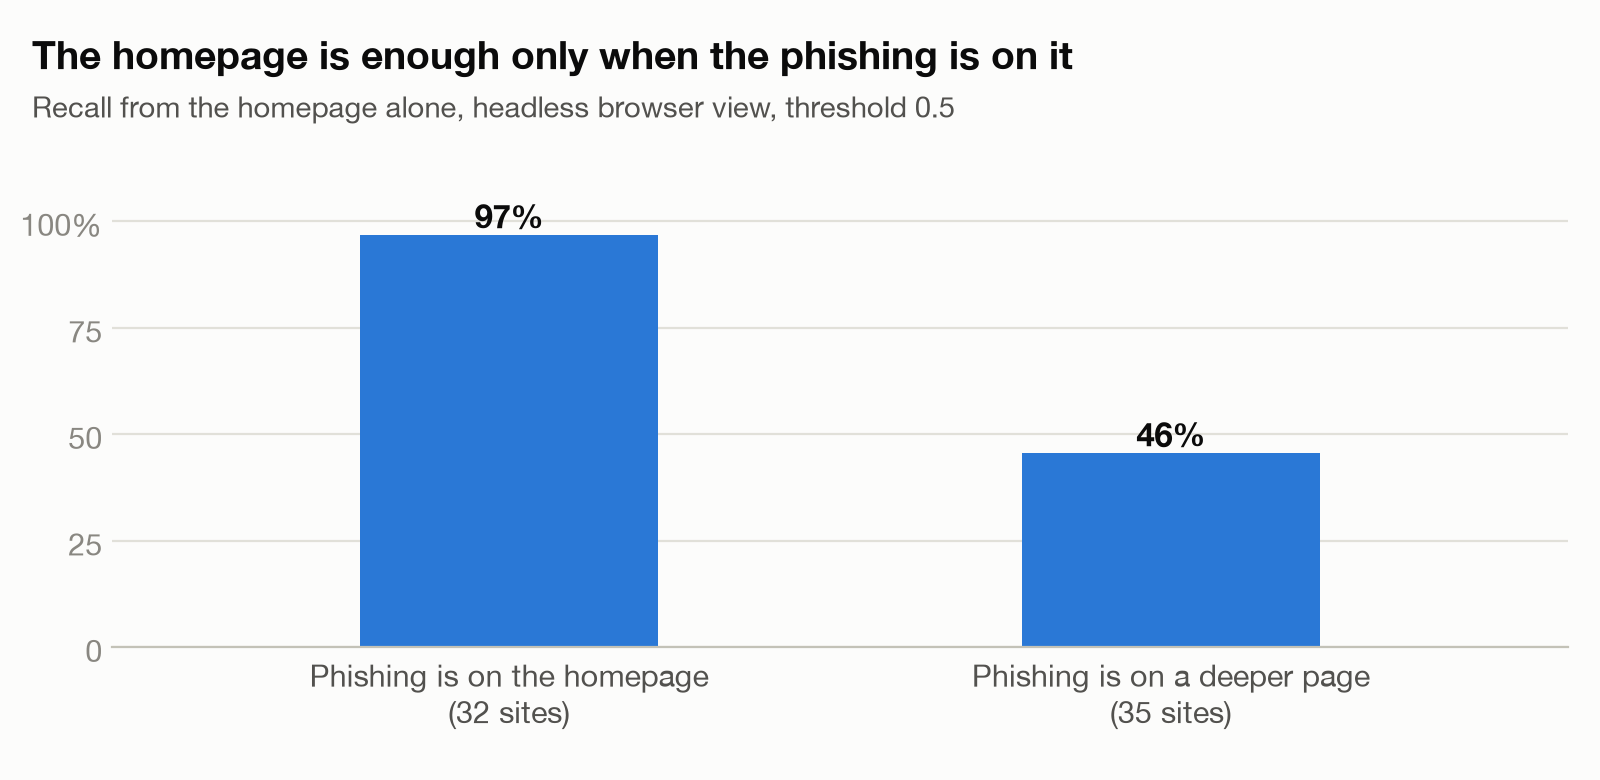
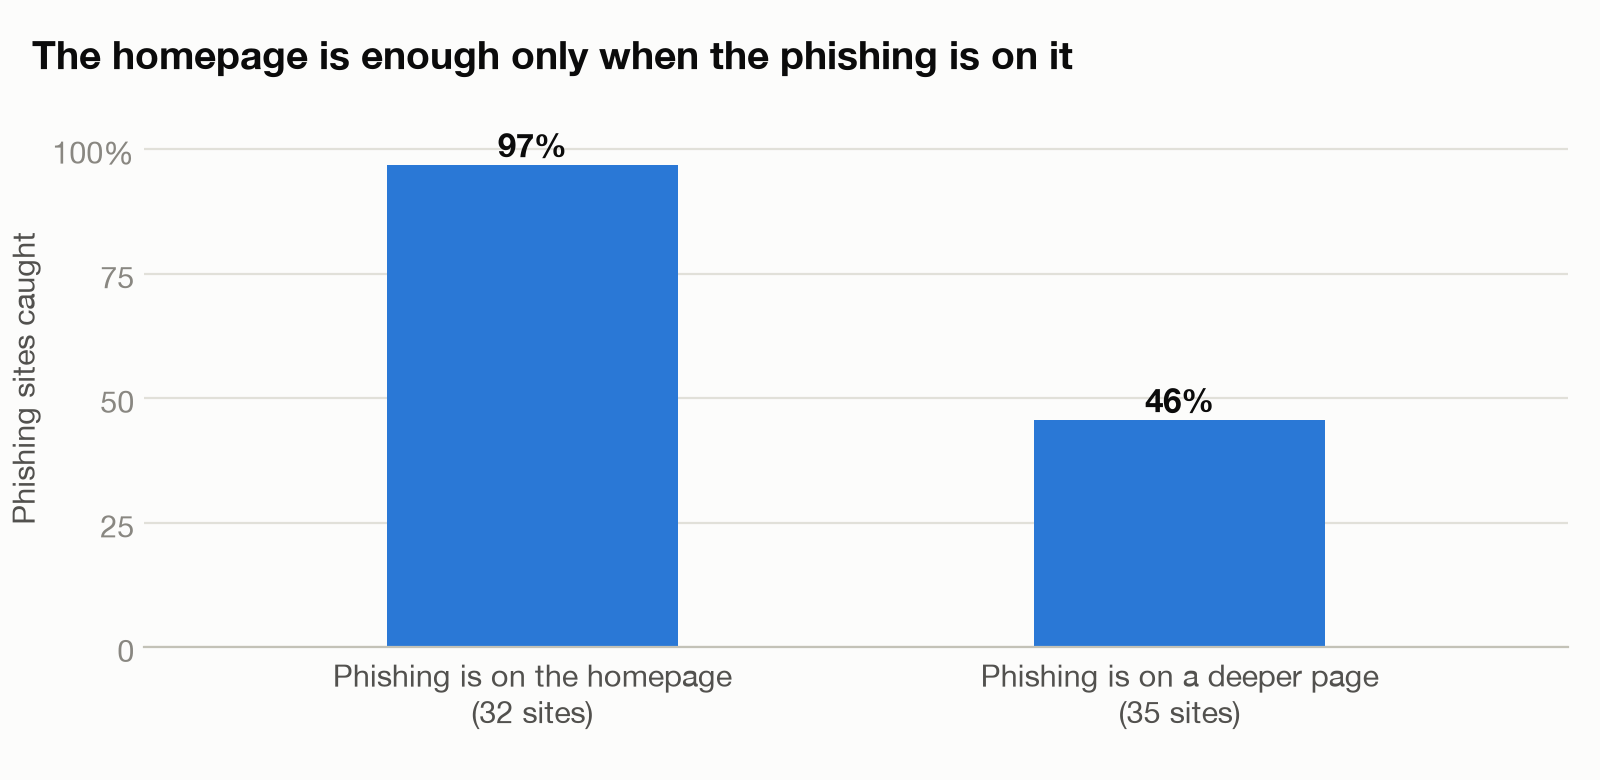
Remove chart subtitles and move their details into the README text

diff --git a/scripts/make_charts.py b/scripts/make_charts.py
@@ -49,9 +49,8 @@ def _axes(width: float = 8.0, height: float = 4.4):
     return fig, ax
 
 
-def _title(fig, title: str, subtitle: str) -> None:
+def _title(fig, title: str) -> None:
     fig.text(0.02, 0.96, title, fontsize=14, fontweight="bold", va="top")
-    fig.text(0.02, 0.885, subtitle, fontsize=10.5, color=INK_2, va="top")
 
 
 def _save(fig, name: str) -> None:
@@ -93,10 +92,10 @@ def chart_recall(review: dict) -> None:
     ax.set_ylim(0, 100)
     ax.set_yticks([0, 25, 50, 75, 100], ["0", "25", "50", "75", "100%"])
     ax.grid(axis="y", color=GRID, linewidth=0.8)
+    ax.set_ylabel("Phishing sites caught")
     ax.legend(frameon=False, loc="upper right", bbox_to_anchor=(1.0, 1.02), ncols=2)
-    _title(fig, "How much phishing does the model catch?",
-           "Recall at threshold 0.5, on the confirmed live phishing sites (67 to 68)")
-    fig.subplots_adjust(top=0.76, left=0.07, right=0.98, bottom=0.14)
+    _title(fig, "How much phishing does the model catch?")
+    fig.subplots_adjust(top=0.86, left=0.09, right=0.98, bottom=0.14)
     _save(fig, "recall.png")
 
 
@@ -121,12 +120,12 @@ def chart_tradeoff(review: dict) -> None:
             fontsize=10.5, color=INK_2, va="center")
     ax.set_xticks(list(xs), [str(t) for t in thresholds])
     ax.set_xlabel("Threshold (lower = flag more pages)")
+    ax.set_ylabel("Share of sites")
     ax.set_ylim(0, 105)
     ax.set_yticks([0, 25, 50, 75, 100], ["0", "25", "50", "75", "100%"])
     ax.grid(axis="y", color=GRID, linewidth=0.8)
-    _title(fig, "A lower threshold catches more, until false positives take over",
-           f"Headless browser view, reported page. {len(scores)} phishing sites, {len(benign)} good sites")
-    fig.subplots_adjust(top=0.78, left=0.07, right=0.98, bottom=0.15)
+    _title(fig, "A lower threshold catches more, until false positives take over")
+    fig.subplots_adjust(top=0.86, left=0.09, right=0.98, bottom=0.15)
     _save(fig, "tradeoff.png")
 
 
@@ -148,9 +147,9 @@ def chart_homepage(review: dict) -> None:
     ax.set_ylim(0, 108)
     ax.set_yticks([0, 25, 50, 75, 100], ["0", "25", "50", "75", "100%"])
     ax.grid(axis="y", color=GRID, linewidth=0.8)
-    _title(fig, "The homepage is enough only when the phishing is on it",
-           "Recall from the homepage alone, headless browser view, threshold 0.5")
-    fig.subplots_adjust(top=0.76, left=0.07, right=0.98, bottom=0.17)
+    ax.set_ylabel("Phishing sites caught")
+    _title(fig, "The homepage is enough only when the phishing is on it")
+    fig.subplots_adjust(top=0.86, left=0.09, right=0.98, bottom=0.17)
     _save(fig, "homepage.png")
 
 
@@ -172,10 +171,10 @@ def chart_labels(review: dict) -> None:
         ax.text(counts[key] + 1, i, str(counts[key]), va="center", fontsize=12, fontweight="bold")
     ax.set_yticks(range(len(order)), [names[key] for key in order], fontsize=11, color=INK)
     ax.set_xticks([])
+    ax.set_xlabel("Number of sites")
     ax.set_xlim(0, max(counts.values()) * 1.12)
-    _title(fig, "Only 6 in 10 feed entries were live phishing",
-           f"Review of {len(review)} sites from a public phishing feed, fetched 9 Nov 2026")
-    fig.subplots_adjust(top=0.76, left=0.42, right=0.97, bottom=0.05)
+    _title(fig, "Only 6 in 10 feed entries were live phishing")
+    fig.subplots_adjust(top=0.86, left=0.42, right=0.97, bottom=0.1)
     _save(fig, "labels.png")
 
 

diff --git a/README.md b/README.md
@@ -11,38 +11,40 @@ The full run cost **$0.14**.
 
 ## Results
 
-### 1. The model catches most phishing when it sees the page
+### The model catches most phishing when it sees the page
 
 ![Recall by test and view](docs/charts/recall.png)
 
-- With a headless browser, the model caught **88%** of live phishing pages and flagged
-  2 of 198 good sites.
-- A headless browser (which runs the page's JavaScript) adds 6 to 9 points over plain HTML.
-- From the homepage alone, the model caught less. Chart 3 shows why.
+Each bar is the share of confirmed live phishing sites (67 to 68 sites) that got a
+score of 0.5 or more. With a headless browser, which runs the page's JavaScript, the
+model caught 88% and flagged 2 of 198 good sites. The browser adds 6 to 9 points over
+plain HTML. From the homepage alone, the model caught less; the third chart shows why.
 
-### 2. A lower threshold catches almost all of it
+### A lower threshold catches almost all of it
 
 ![Recall and false positives by threshold](docs/charts/tradeoff.png)
 
-The model gives each page a score from 0 to 1. At a threshold of 0.3, it caught **96%**
-of phishing and flagged **1.5%** of good sites. Below 0.1, false positives increase
-quickly.
+The model gives each page a score from 0 to 1, and the threshold is the score at which
+a page is flagged. This chart uses the headless browser view of the reported page, with
+68 phishing sites and 198 good sites. At a threshold of 0.3, the model caught 96% of
+phishing and flagged 1.5% of good sites. Below 0.1, false positives increase quickly.
 
-### 3. The homepage is enough only when the phishing is on it
+### The homepage is enough only when the phishing is on it
 
 ![Homepage recall by phishing location](docs/charts/homepage.png)
 
 A scanner of newly registered domains sees only the homepage. That works when the
-phishing page *is* the homepage. It fails when the phishing is on a deeper page of a
+phishing page is the homepage. It fails when the phishing is on a deeper page of a
 hacked site, a link shortener, or a shared host, where the homepage is harmless.
+(Headless browser view, threshold 0.5.)
 
-### 4. Public phishing feeds are noisy
+### Public phishing feeds are noisy
 
 ![Review of feed labels](docs/charts/labels.png)
 
-We reviewed all 128 sites from the feed. Only 75 were live phishing. The others were
-dead, hidden from scanners, or never phishing. All results above use only the
-confirmed sites, with duplicates removed (68 sites).
+We reviewed all 128 sites that the feed gave us on 9 November 2026. Only 75 were live
+phishing. The others were dead, hidden from scanners, or never phishing. All results
+above use only the confirmed sites, with duplicates removed (68 sites).
 
 ## How it works
 
